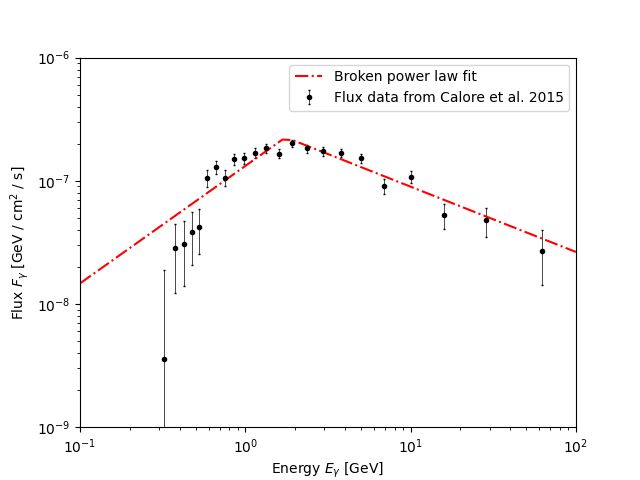
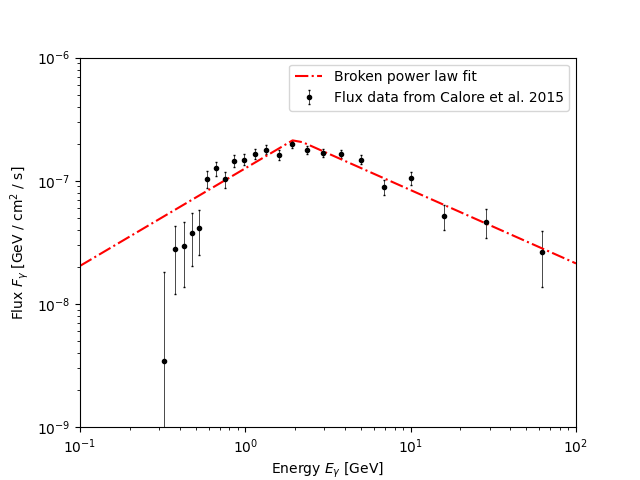
flux integration+error

diff --git a/Flux/flux.py b/Flux/flux.py
@@ -27,9 +27,8 @@ rc = 8.5           #kpc            #Earth-GC distance
 
 # integration over ROI
 num = integrate.nquad(gNRW2, [[1.0e-6 , np.infty], [l_min, l_max], [b_min, b_max]] , args=(rs, g, rc))[-1]
-i1 = integrate.quad(np.cos, l_min , l_max)[0]
-i2 = integrate.quad(np.cos, b_min , b_max)[0]
-ang_norm = 2*(l_max-l_min)*(b_max-b_min)
+
+ang_norm = 2*(l_max-l_min)*(np.sin(b_max)-np.sin(b_min))
 #****************************************************************
 #Import data of Calore et al. 2015
 
@@ -52,7 +51,7 @@ d = Data()
 
 #****************************************************************
 #Fit with a broken power law
-l = LeastSquares(d.emeans, d.flux, d.flux_err, broken_pl_arr) 
+l = LeastSquares(d.emeans, d.flux, d.full_sigma, broken_pl_arr) 
 m = Minuit(l, 1.0e-6, 2.06, 1.42, 2.63, name=("F_0", "E_b", "n1", "n2" )) #following Dinsmore2022 notation
 
 m.migrad()
